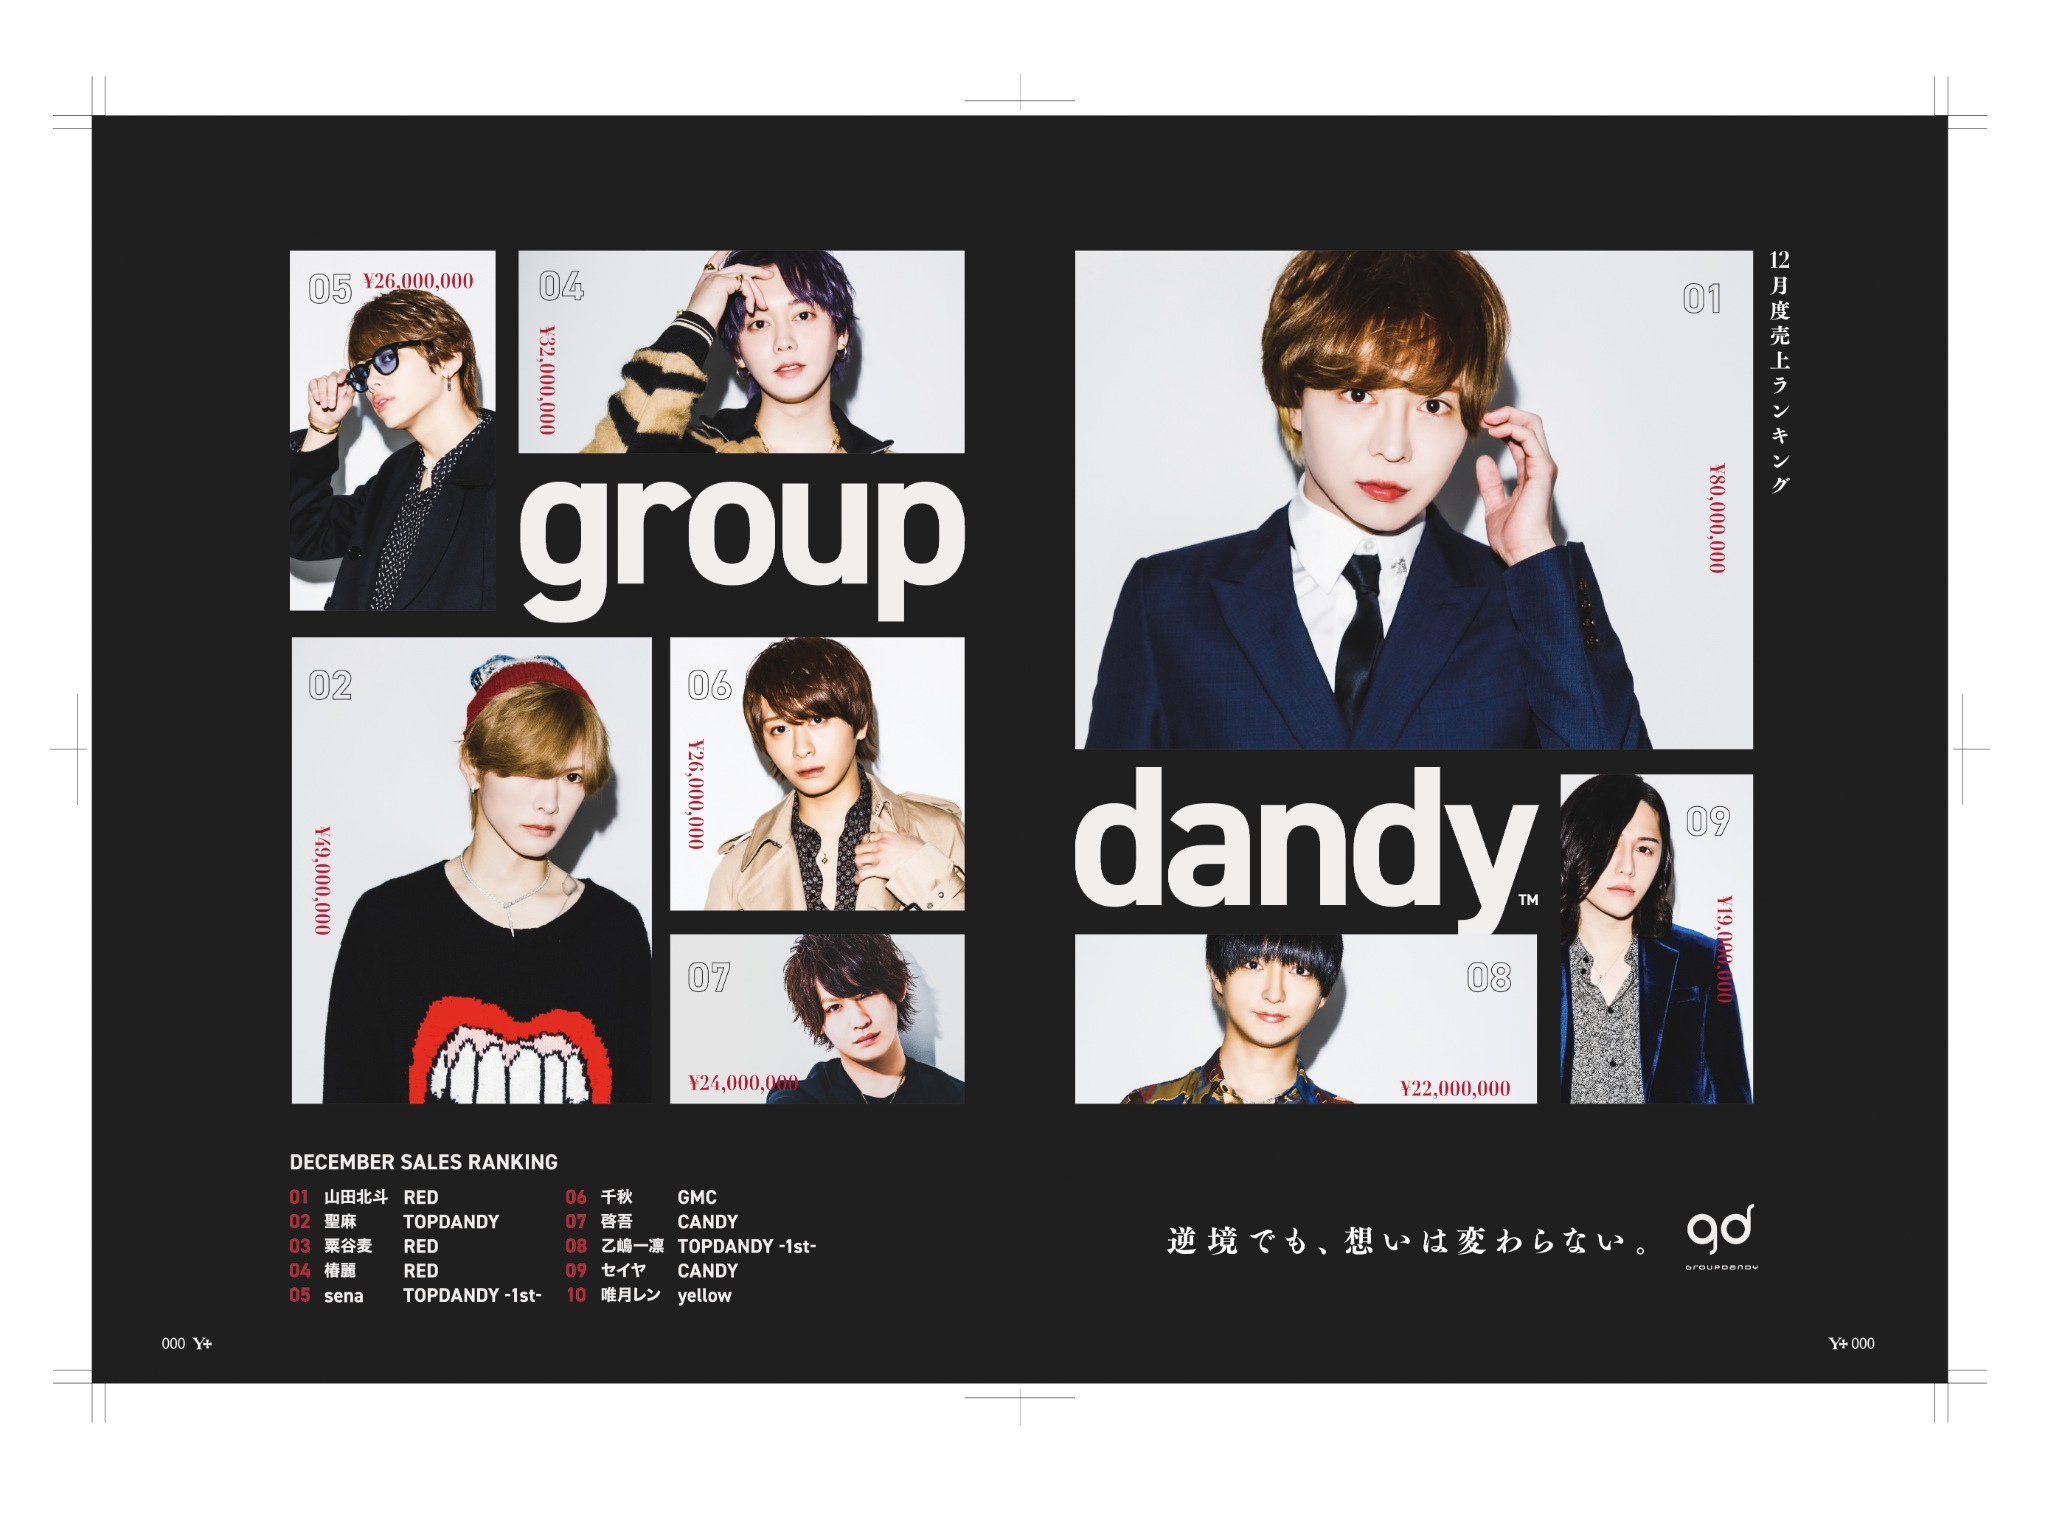
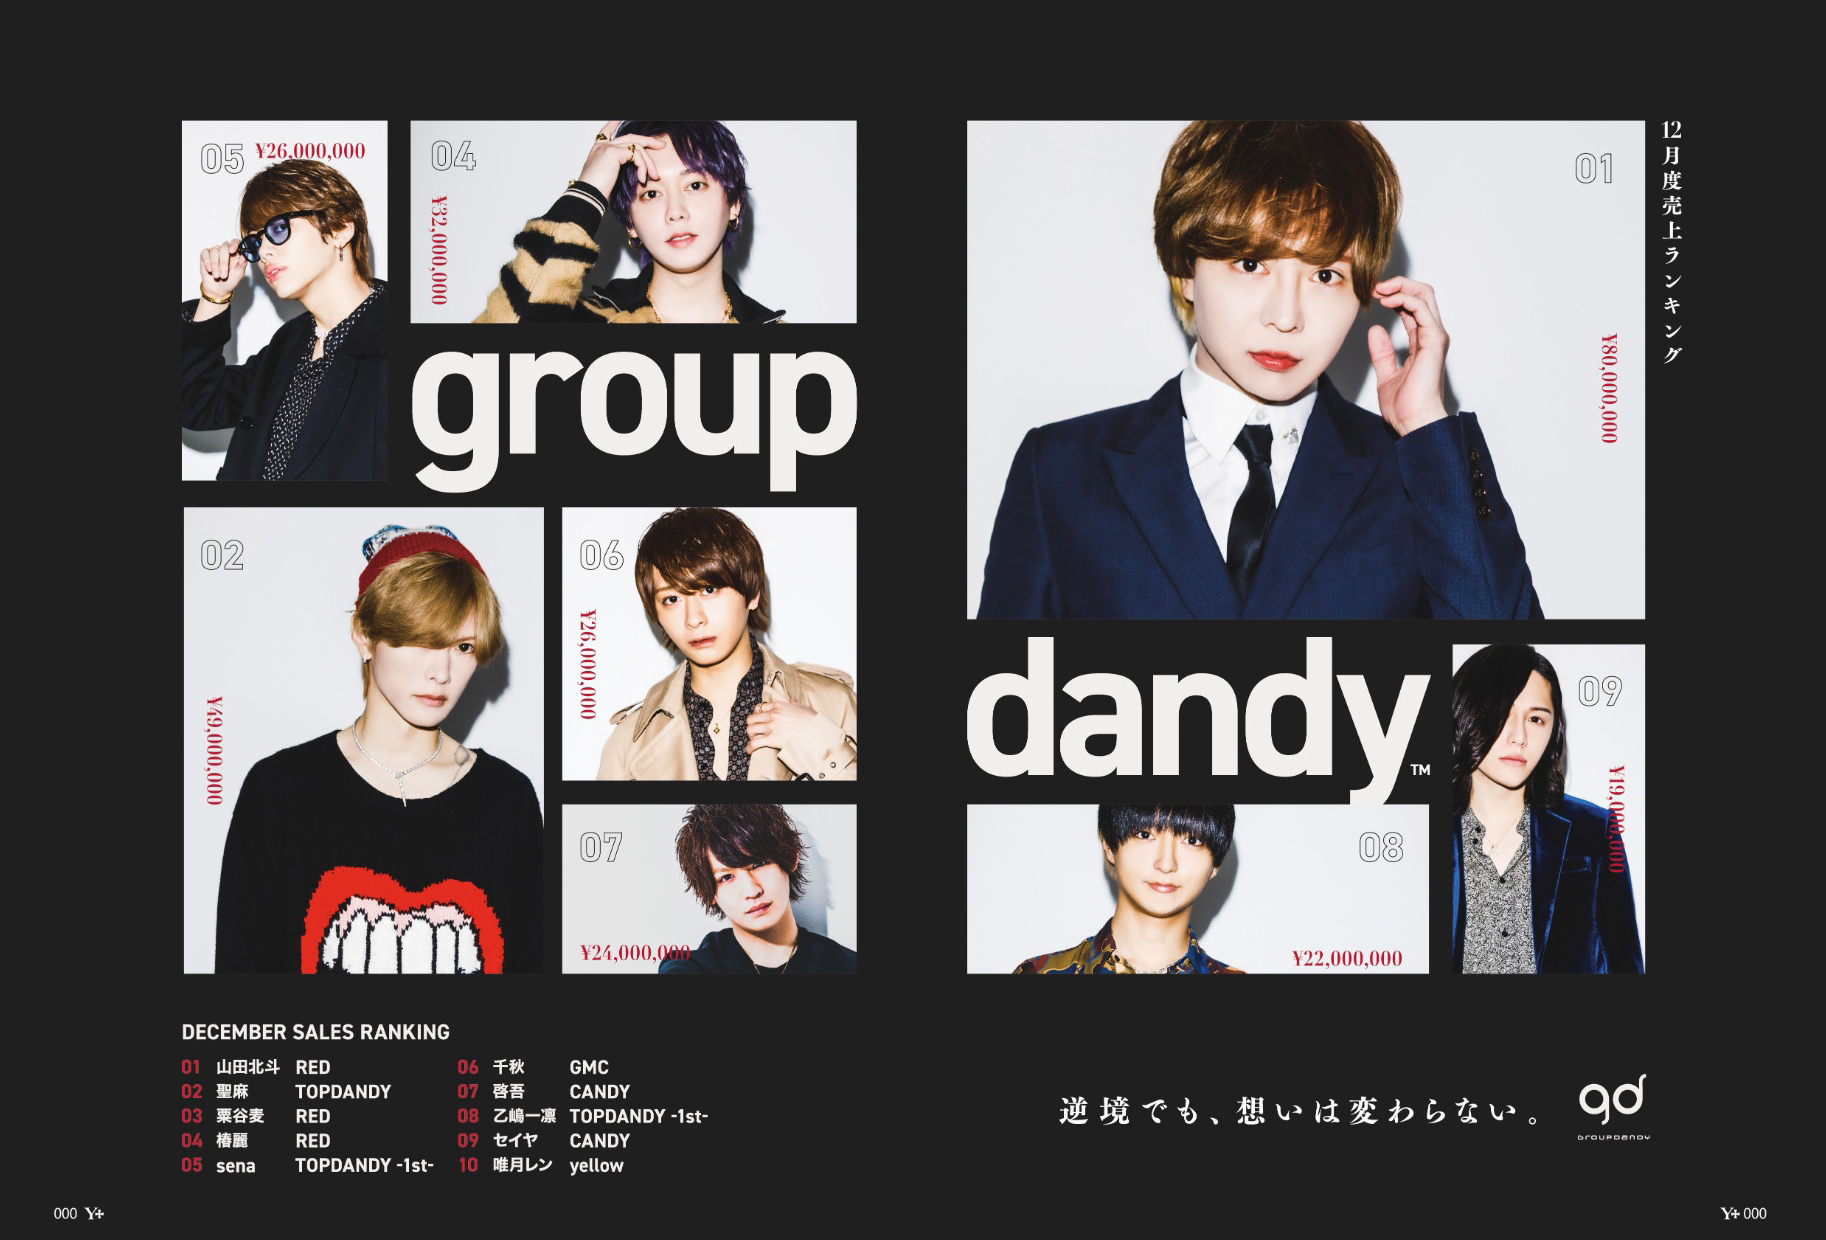
Replace December 2021 magazine artwork

diff --git a/index.html b/index.html
@@ -142,7 +142,7 @@
   </button>
   <div class="gallery-caption"><button class="gallery-title-button" type="button" data-gallery-open="top-dandy-nagoya-halloween-2025" aria-label="TOP DANDY NAGOYA 2025 ハロウィンの動画を開く">TOP DANDY NAGOYA 2025 ハロウィン</button><small>motion graphic · 2025</small></div>
 </article>
-<article class="gallery-tile" id="2021-12-magazine-ad"><button class="gallery-media gallery-zoom" type="button" data-gallery-image="assets/2021-12-magazine-ad-hq.jpg" data-gallery-name="2021.12 Magazine Ad" aria-label="2021.12 Magazine Adを拡大表示"><img src="assets/2021-12-magazine-ad-hq.jpg" width="2048" height="1524" loading="lazy" decoding="async" alt="group dandyの2021年12月売上ランキング雑誌広告。黒背景に白い大型タイポグラフィと人物写真を幾何学的に配置したデザイン"><span class="gallery-expand" aria-hidden="true">expand ↗</span></button><div class="gallery-caption"><button class="gallery-title-button" type="button" data-gallery-open="2021-12-magazine-ad" aria-label="2021.12 Magazine Adの作品を開く">2021.12 Magazine Ad</button><small>graphic · 2021</small></div></article>
+<article class="gallery-tile" id="2021-12-magazine-ad"><button class="gallery-media gallery-zoom" type="button" data-gallery-image="assets/2021-12-magazine-ad-hq.jpg?v=20261102" data-gallery-name="2021.12 Magazine Ad" aria-label="2021.12 Magazine Adを拡大表示"><img src="assets/2021-12-magazine-ad-hq.jpg?v=20261102" width="1826" height="1240" loading="lazy" decoding="async" alt="group dandyの2021年12月売上ランキング雑誌広告。黒背景に白い大型タイポグラフィと人物写真を幾何学的に配置したデザイン"><span class="gallery-expand" aria-hidden="true">expand ↗</span></button><div class="gallery-caption"><button class="gallery-title-button" type="button" data-gallery-open="2021-12-magazine-ad" aria-label="2021.12 Magazine Adの作品を開く">2021.12 Magazine Ad</button><small>graphic · 2021</small></div></article>
 <article class="gallery-tile" id="2021-07-magazine-ad"><button class="gallery-media gallery-zoom" type="button" data-gallery-image="assets/2021-07-magazine-ad-hq.jpg" data-gallery-name="2021.07 Magazine Ad" aria-label="2021.07 Magazine Adを拡大表示"><img src="assets/2021-07-magazine-ad-hq.jpg" width="900" height="610" loading="lazy" decoding="async" alt="2021年7月のgroup dandyの月間ランキング広告。暗色の背景に黄色のタイポグラフィと人物写真をレイアウトしたビジュアル"><span class="gallery-expand" aria-hidden="true">expand ↗</span></button><div class="gallery-caption"><button class="gallery-title-button" type="button" data-gallery-open="2021-07-magazine-ad" aria-label="2021.07 Magazine Adの作品を開く">2021.07 Magazine Ad</button><small>graphic · 2021</small></div></article>
 </div></div>
 </section>
